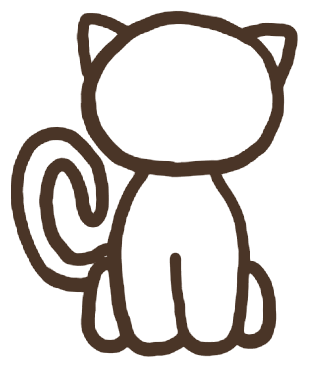
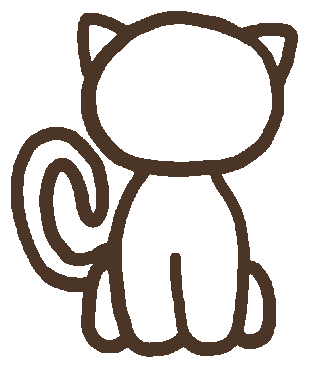
style(cats): hard-edged lines, black on dark coats, and every cat on one floor
The line layers kept a soft fringe from the screenshots, and that fringe blended
with the fill beneath it and read as breaks in the stroke — worst on a black
coat. The layers are regenerated hard-edged at full resolution, a pixel either
line or not, and the browser's own downscaling smooths them.

A black cat drawn with cocoa lines looked as if its edges had worn off, since
the outline was lighter than the fill. The lines now follow the coat: black
when any part is as dark as cocoa, cocoa otherwise, applied to the whole line
layer at once so no stroke is ever broken up.

Portraits also stop floating at the centre of their frame. Each painted image
is trimmed to the drawing itself, then sat on the bottom of a padded box, so
feet and rumps land on the same invisible floor from card to card. A kitten
gets a taller top margin on that same floor, which keeps her small.

Layer requests carry a new version so browsers fetch the regenerated files.

diff --git a/components/CatPortrait.tsx b/components/CatPortrait.tsx
@@ -41,7 +41,7 @@ interface Props {
 const LAYER_DIR = '/images/portraits/'
 /* Bumped whenever the layer files are regenerated. The file names never
    change, so without this a browser keeps serving the old lines from cache. */
-const LAYER_VERSION = 3
+const LAYER_VERSION = 4
 
 interface PoseLayers {
   width: number
@@ -130,14 +130,58 @@ async function paint(plan: PortraitPlan): Promise<string> {
   const ctx = canvas.getContext('2d')
   if (!ctx) throw new Error('No 2d context')
   ctx.putImageData(fill, 0, 0)
-  // Her lines go on whole, on top, at full alpha: never masked, clipped,
-  // thinned or recoloured by region. The fill only ever sits underneath.
-  if (plan.showInner) ctx.drawImage(layers.inner, 0, 0)
-  ctx.drawImage(layers.outline, 0, 0)
+  // Her lines go on whole, on top, at full alpha: never masked, clipped or
+  // thinned. The one thing that changes is their single colour — black on a
+  // dark coat, cocoa otherwise — applied to the whole layer at once.
+  if (plan.showInner) ctx.drawImage(tintLines(layers.inner, plan.line), 0, 0)
+  ctx.drawImage(tintLines(layers.outline, plan.line), 0, 0)
 
-  const blob = await new Promise<Blob | null>(resolve => canvas.toBlob(resolve, 'image/png'))
+  // Trim the transparent margin so the drawing's own edges are the image's
+  // edges. The cards sit every cat on the same floor, which only works if the
+  // feet are at the bottom of the picture and not above a margin that differs
+  // from pose to pose.
+  const trimmed = trimToContent(canvas)
+
+  const blob = await new Promise<Blob | null>(resolve => trimmed.toBlob(resolve, 'image/png'))
   if (!blob) throw new Error('Could not export portrait')
   return URL.createObjectURL(blob)
+}
+
+/** The line layer in one flat colour, its alpha untouched. */
+function tintLines(layer: HTMLImageElement, colour: string): HTMLCanvasElement {
+  const c = document.createElement('canvas')
+  c.width = layer.naturalWidth
+  c.height = layer.naturalHeight
+  const ctx = c.getContext('2d')
+  if (!ctx) return c
+  ctx.drawImage(layer, 0, 0)
+  ctx.globalCompositeOperation = 'source-in'
+  ctx.fillStyle = colour
+  ctx.fillRect(0, 0, c.width, c.height)
+  return c
+}
+
+/** A copy cropped to the painted pixels, with a small even margin. */
+function trimToContent(canvas: HTMLCanvasElement): HTMLCanvasElement {
+  const ctx = canvas.getContext('2d')
+  if (!ctx) return canvas
+  const { data } = ctx.getImageData(0, 0, canvas.width, canvas.height)
+  let x0 = canvas.width, y0 = canvas.height, x1 = -1, y1 = -1
+  for (let y = 0; y < canvas.height; y++)
+    for (let x = 0; x < canvas.width; x++) {
+      if (data[(y * canvas.width + x) * 4 + 3] === 0) continue
+      if (x < x0) x0 = x
+      if (x > x1) x1 = x
+      if (y < y0) y0 = y
+      if (y > y1) y1 = y
+    }
+  if (x1 < 0) return canvas
+  const m = 2
+  const out = document.createElement('canvas')
+  out.width = x1 - x0 + 1 + m * 2
+  out.height = y1 - y0 + 1 + m * 2
+  out.getContext('2d')?.drawImage(canvas, x0 - m, y0 - m, out.width, out.height, 0, 0, out.width, out.height)
+  return out
 }
 
 /**
@@ -205,7 +249,13 @@ export default function CatPortrait({ cat, size, decorative = false, className =
           // pose loses an ear or a tail tip to the frame. A kitten sits in the
           // bottom of a wider margin, so beside an adult's card she is small —
           // the size difference says "kitten" before the age does.
-          className={`w-full h-full object-contain ${plan.pose === 'kitten' ? 'p-[18%] object-bottom' : 'p-[8%]'}`}
+          // Every cat stands on the same floor — the bottom edge of the
+          // padded box — rather than floating at the centre of its frame.
+          // A kitten gets a taller top margin, so she is smaller on that
+          // same floor; the size difference says "kitten" before the age does.
+          className={`w-full h-full object-contain object-bottom ${
+            plan.pose === 'kitten' ? 'px-[20%] pt-[36%] pb-[9%]' : 'px-[8%] pt-[8%] pb-[9%]'
+          }`}
         />
       )}
       {ready && state.failed && (

diff --git a/lib/portrait.ts b/lib/portrait.ts
@@ -128,6 +128,27 @@ export interface PortraitPlan {
    */
   showInner: boolean
   colours: Record<Part, string>
+  /**
+   * The colour her lines are drawn in. Cocoa, like the home tree, unless the
+   * coat is darker than cocoa — a black cat with a lighter outline looks as
+   * if its edges were worn off — in which case the lines go black too.
+   */
+  line: string
+}
+
+export const LINE_COCOA = '#4a3527'
+export const LINE_BLACK = '#0f0d0c'
+
+/** Perceived lightness 0..255 of a hex colour. */
+function lightness(hex: string): number {
+  const n = parseInt(hex.slice(1), 16)
+  return 0.299 * ((n >> 16) & 255) + 0.587 * ((n >> 8) & 255) + 0.114 * (n & 255)
+}
+
+/** Lines darker than the coat, always: cocoa, or black on a dark coat. */
+export function lineColourFor(colours: Record<Part, string>): string {
+  const darkest = Math.min(...PARTS.map(p => lightness(colours[p])))
+  return darkest < lightness(LINE_COCOA) + 12 ? LINE_BLACK : LINE_COCOA
 }
 
 /**
@@ -213,10 +234,12 @@ export function portraitPlan(
 ): PortraitPlan {
   const color = effectiveColor(cat) ?? DEFAULT_COLOR
   const pattern = effectivePattern(cat) ?? DEFAULT_PATTERN
+  const colours = portraitColours(color, pattern)
   return {
     pose: poseFor(cat),
     showInner: pattern !== 'Solid',
-    colours: portraitColours(color, pattern),
+    colours,
+    line: lineColourFor(colours),
   }
 }
 
@@ -226,5 +249,5 @@ export function portraitPlan(
  * painter, so this is exact rather than a heuristic.
  */
 export function portraitKey(plan: PortraitPlan): string {
-  return `${plan.pose}|${plan.showInner ? 'lines' : 'clean'}|${PARTS.map(p => plan.colours[p]).join(',')}`
+  return `${plan.pose}|${plan.showInner ? 'lines' : 'clean'}|${plan.line}|${PARTS.map(p => plan.colours[p]).join(',')}`
 }

diff --git a/lib/portrait.test.ts b/lib/portrait.test.ts
@@ -212,3 +212,20 @@ describe('portrait regions', () => {
     }
   })
 })
+
+describe('lineColourFor', () => {
+  it('draws black lines on a dark coat and cocoa lines on a light one', async () => {
+    const { lineColourFor, LINE_BLACK, LINE_COCOA } = await import('@/lib/portrait')
+    expect(lineColourFor(portraitColours('Black', 'Solid'))).toBe(LINE_BLACK)
+    expect(lineColourFor(portraitColours('Chocolate', 'Solid'))).toBe(LINE_BLACK)
+    expect(lineColourFor(portraitColours('Orange', 'Solid'))).toBe(LINE_COCOA)
+    expect(lineColourFor(portraitColours('White', 'Solid'))).toBe(LINE_COCOA)
+    // A tuxedo is black with white parts: the lines follow the darkest part.
+    expect(lineColourFor(portraitColours('Black', 'Tuxedo'))).toBe(LINE_BLACK)
+  })
+
+  it('is part of the appearance key, so two line colours never share a render', () => {
+    const black = portraitPlan({ color: 'Black', pattern: 'Solid', breed: [] })
+    expect(portraitKey(black)).toContain(black.line)
+  })
+})
